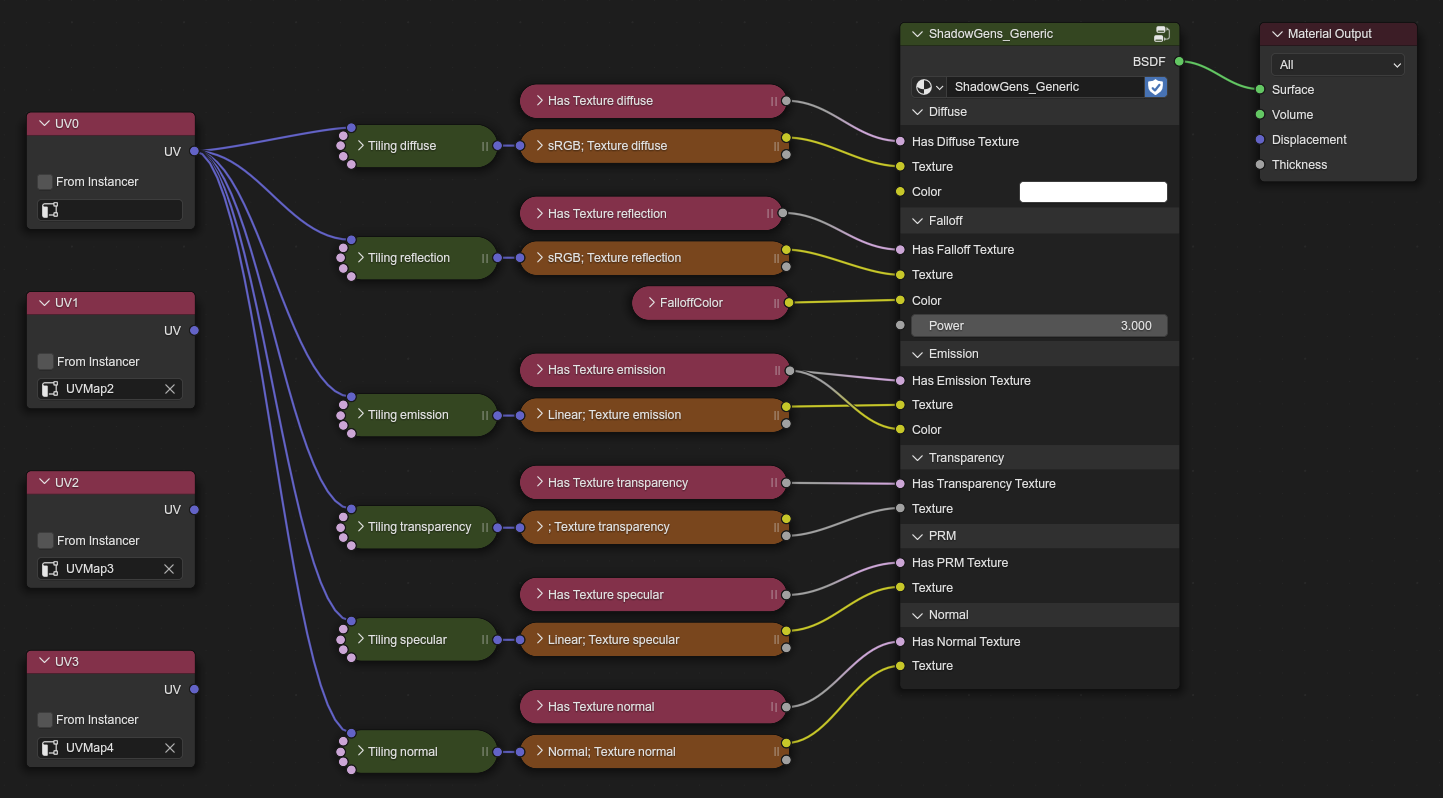
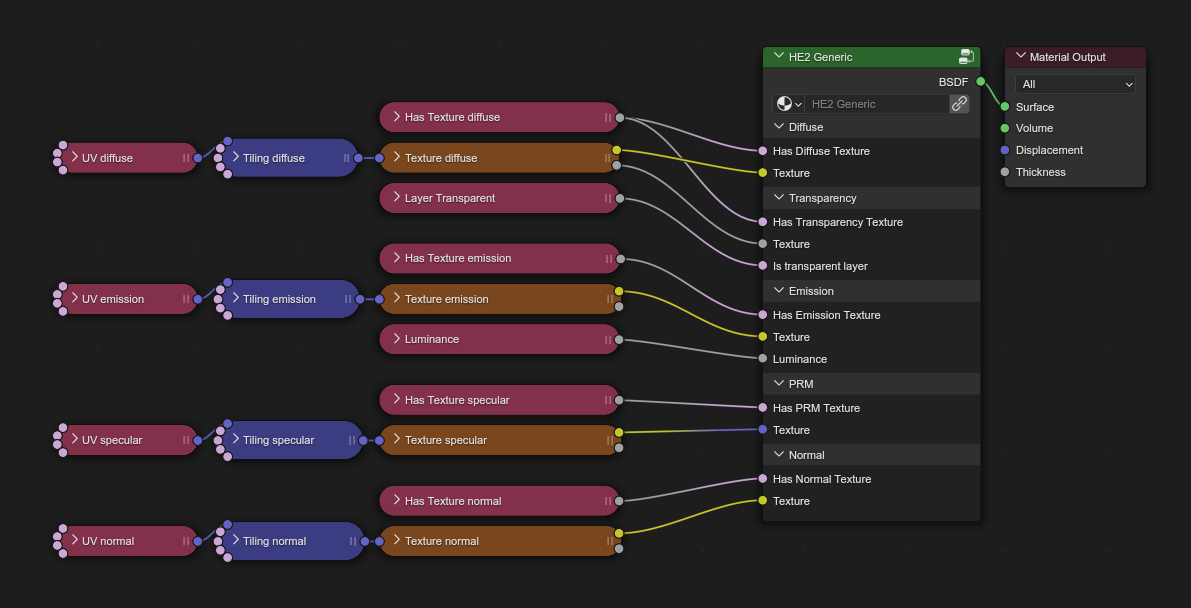
Updated target config manual

diff --git a/manual/source/target_configuration/material_templates.rst b/manual/source/target_configuration/material_templates.rst
@@ -25,10 +25,24 @@ Node Setups
 First and foremost, the addon accesses and modifies nodes by their name (not their label!), so make
 sure to correctly name nodes that interface with parameters and textures!
 
-Every template must also include 4 UV map nodes named ``UV0`` through ``UV3``.
+
+HEIO Common nodes
+-----------------
+
+The addon provides blend files with a range of custom node groups that are meant to be used in each
+material template file.
+
+.. important::
+
+	If you add a node tree to a templates file, make sure to link and not append or copy-paste it!
 
 
-Parameter Nodes
+.. figure:: /images/target_configuration_material_template_common_nodes.png
+
+	The current common node groups as of dev version 0.1.21
+
+
+Parameter nodes
 ---------------
 
 Float and color parameters can be assigned to multiple different types of nodes:
@@ -42,16 +56,45 @@ Float and color parameters can be assigned to multiple different types of nodes:
 Boolean parameters can only be assigned to `value node <https://docs.blender.org/manual/en/latest/render/shader_nodes/input/value.html>`_,
 which receives a ``1`` if the parameter is set to ``true``, and otherwise a ``0``.
 
+
+"System" nodes
+--------------
+
+Similar to parameter nodes, there exist "system" nodes that get filled based on other material properties
+
+Layer Opaque
+	A `value node <https://docs.blender.org/manual/en/latest/render/shader_nodes/input/value.html>`_
+	with the name ``Layer Opaque``, which receives a ``1`` if the material layer resolves to
+	``Opaque``, otherwise ``0``.
+
+
+Layer Transparent
+	A `value node <https://docs.blender.org/manual/en/latest/render/shader_nodes/input/value.html>`_
+	with the name ``Layer Transparent``, which receives a ``1`` if the material layer resolves to
+	``Transparent`` or ``Punch-through``, otherwise ``0``.
+
+
+Layer Special
+	A `value node <https://docs.blender.org/manual/en/latest/render/shader_nodes/input/value.html>`_
+	with the name ``Layer Special``, which receives a ``1`` if the material layer resolves to
+	``Special``, otherwise ``0``.
+
+
 Texture Nodes
 -------------
 
-To properly make use of textures, you need to set up 3 nodes, of which their names need to end
+To properly make use of textures, you need to set up several nodes, of which their names need to end
 with the :ref:`texture type name <HEIO_MaterialTexture.name>` they are set up for.
 
 .. figure:: /images/target_configuration_material_template_texture_example.png
 
 	example for a texture nodes setup
 
+
+It should be noted that all of these are optional and not required, and the setup may even vary
+based on the shader you are trying to replicate. For example, many shaders do not make use of the
+texture coordinate index of the texture, and can just be linked to the corresponding output of the
+static ``HEIO UV Input`` node.
 
 .. important::
 
@@ -66,13 +109,10 @@ The Image node
 	An `image texture node <https://docs.blender.org/manual/en/latest/render/shader_nodes/textures/image.html>`_
 	with the name ``Texture`` (e.g. ``Texture diffuse``) for sampling the actual image.
 
-	.. warning::
-
-		Make sure to set the extension mode of the node to ``Extend``!
-
-	The image node also has special behavior regarding its label: By default, images are loaded as
-	regular sRGB images, which is often not desired. You can specify an "image type" by adding it
-	to the start of a label and following it up with a ``;``.
+	The image node also has special behavior regarding its label: By default, images get laoded using
+	the default "image type" in the target info file. If the default is not correct for your case,
+	you can specify an "image type" by adding it to the start of a label and following it up with
+	a ``;``.
 
 	Following texture types exist:
 
@@ -92,8 +132,13 @@ The "Has Texture" node
 
 The UV Tiling node
 	A `group node <https://docs.blender.org/manual/en/latest/render/shader_nodes/groups.html>`_
-	with the ``HEIO UV Tiling`` node tree and the name ``Tiling`` (e.g. ``Tiling diffuse``) that
-	gets connected to the image nodes vector input.
+	with the ``HEIO UV Tiling`` node tree and the name ``Tiling`` (e.g. ``Tiling diffuse``).
 
-	You can append the node tree it from any of the default target definitions by HEIO. It
-	replaces the texture wrapping to make per-axis wrapping possible.
+	This node tree gets linked from the common node groups file.
+
+
+The Indexed UV Input node
+	A `group node <https://docs.blender.org/manual/en/latest/render/shader_nodes/groups.html>`_
+	with the ``HEIO Indexed UV Input`` node tree and the name ``UV`` (e.g. ``UV diffuse``).
+
+	This node tree gets linked from the common node groups file.

diff --git a/manual/source/target_configuration/target_info.rst b/manual/source/target_configuration/target_info.rst
@@ -37,5 +37,14 @@ File Structure
 
 	    // Version of the material file sample chunk structure (1-2)
 	    "MaterialSampleChunk": 2
+	  },
+
+	  // Default texture modes to use for each texture type when importing images for materials.
+	  // Can be "sRGB" for color textures, "Linear" for non-color textures, and "Normal" for normal textures (enables y-channel flipping)
+	  "DefaultTextureModes": {
+	    "diffuse": "sRGB",
+	    "specular": "Linear",
+	    "normal": "Normal",
+	    /*...*/
 	  }
 	}
